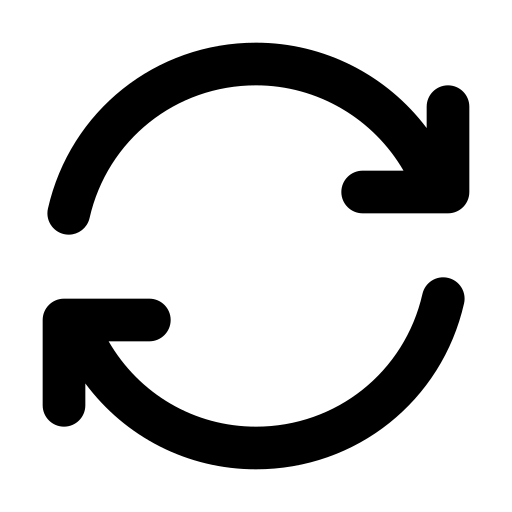
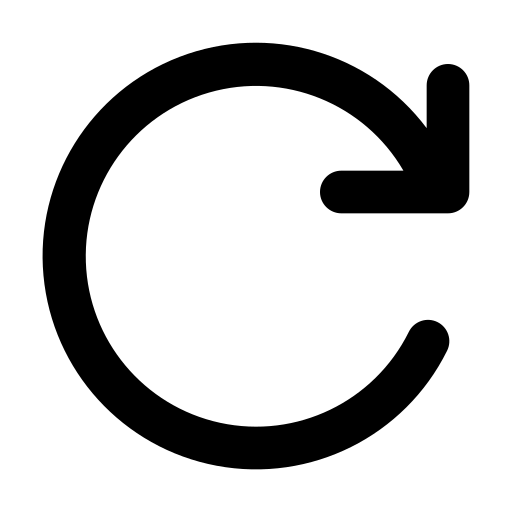
stable. confirm before clear

diff --git a/modules/helpers.js b/modules/helpers.js
@@ -189,73 +189,6 @@ export function highlightText(text, keyword) {
   return result;
 }
 
-// export function getCategoryIcon(category) {
-//   switch (category) {
-//     case 'html':
-//       return '🌐';
-
-//     case 'css':
-//       return '🎨';
-
-//     case 'js':
-//       return '⚡';
-
-//     case 'api':
-//       return '🔌';
-
-//     case 'graphql':
-//       return '🕸️';
-
-//     case 'xml':
-//       return '📰';
-
-//     case 'form':
-//       return '📝';
-
-//     case 'upload':
-//       return '📤';
-
-//     case 'image':
-//       return '🖼️';
-
-//     case 'video':
-//       return '🎬';
-
-//     case 'audio':
-//       return '🎵';
-
-//     case 'font':
-//       return '🔤';
-
-//     case 'pdf':
-//       return '📄';
-
-//     case 'archive':
-//       return '📦';
-
-//     case 'text':
-//       return '📃';
-
-//     case 'wasm':
-//       return '🧩';
-
-//     case 'manifest':
-//       return '📋';
-
-//     case 'stream':
-//       return '📺';
-
-//     case 'sse':
-//       return '📡';
-
-//     case 'sourcemap':
-//       return '🗺️';
-
-//     default:
-//       return '❓';
-//   }
-// }
-
 export function getCategoryIcon(category) {
   switch (category) {
     case 'html':

diff --git a/panel.html b/panel.html
@@ -8,13 +8,29 @@
 </head>
 <body>
   <div id="search-bar">
-    <button id="reload-btn" class="btn secondary">Reload</button>
-    <button id="clear" class="btn secondary">Clear</button>
-    <select id="capture-mode">
-          <option value="api">API Only</option>
-          <option value="all">All Traffic</option>
-          <option value="custom">Custom</option>
-        </select>
+    <button id="reload-btn" class="btn secondary" title="Reload">
+      <img src="icons/reload.png" class="btn-icon"/>
+    </button>
+    <button id="clear" class="btn secondary" title="Clear All">
+      <img src="icons/trash.png" class="btn-icon"/>
+    </button>
+
+    <div class="theme-picker">
+      <img src="icons/filter.png" class="theme-icon"/>
+      <select id="capture-mode">
+        <option value="api">API Only</option>
+        <option value="all">All Traffic</option>
+        <option value="custom">Custom</option>
+      </select>
+    </div>
+
+    <button class="btn secondary" id="export-btn">
+      <img src="icons/export.png" class="btn-icon"/>
+    </button>
+    <button class="btn secondary" id="import-btn">
+        <img src="icons/import.png" class="btn-icon"/>
+    </button>
+    
     <input id="search" type="text" placeholder="Filter by URL…" spellcheck="false" />
     <select id="filter-method">
       <option value="">All Methods</option>
@@ -38,7 +54,7 @@
     <div class="actions">
       <div class="theme-picker">
         <img src="icons/theme.png" class="theme-icon"/>
-          <select id="theme-select">
+        <select id="theme-select">
           <option value="vscode-dark">VS Code Dark</option>
           <option value="jetbrains-dark">JetBrains Dark</option>
           <option value="one-dark">One Dark</option>
@@ -87,6 +103,17 @@
     <span id="status-text">Listening…</span>
     <span id="status-count">0 requests</span>
   </footer>
+
+  <!-- Modal Konfirmasi Kustom -->
+  <div id="confirmModal" style="display: none; position: fixed; inset: 0; background: rgba(0,0,0,0.5); z-index: 9999; align-items: center; justify-content: center;">
+    <div style="background: white; padding: 24px; border-radius: 12px; max-width: 400px; width: 90%; box-shadow: 0 10px 30px rgba(0,0,0,0.3);">
+      <p id="confirmMessage" style="margin-top: 0; font-size: 16px; color: #333;"></p>
+      <div style="display: flex; gap: 12px; justify-content: flex-end; margin-top: 20px;">
+        <button id="confirmNo" style="padding: 8px 20px; border: 1px solid #ccc; background: #f5f5f5; border-radius: 6px; cursor: pointer;">Cancel</button>
+        <button id="confirmYes" style="padding: 8px 20px; border: none; background: #d32f2f; color: white; border-radius: 6px; cursor: pointer;">Delete All</button>
+      </div>
+    </div>
+  </div>
 
   <script type="module" src="panel.js"></script>
 </body>

diff --git a/panel.js b/panel.js
@@ -41,6 +41,11 @@ filterStatus.addEventListener('change', renderList);
 filterContent.addEventListener('input', renderList);
 
 document.getElementById('clear').onclick = async () => {
+  const confirmed = await customConfirm(
+    'Are you sure you want to clear all logs?\n\nThis action cannot be undone.'
+  );
+
+  if (!confirmed) return;
   setLogs([]);
   setSelectedId(null);
   setEditingId(null);
@@ -153,6 +158,44 @@ document.getElementById('reload-btn').addEventListener('click', () => {
         ignoreCache: true
     });
 });
+
+function customConfirm(message) {
+  return new Promise((resolve) => {
+    const modal = document.getElementById('confirmModal');
+    const msgEl = document.getElementById('confirmMessage');
+    const yesBtn = document.getElementById('confirmYes');
+    const noBtn = document.getElementById('confirmNo');
+
+    msgEl.textContent = message;
+    modal.style.display = 'flex';
+
+    const cleanup = () => {
+      yesBtn.onclick = null;
+      noBtn.onclick = null;
+      modal.onclick = null;
+    };
+
+    yesBtn.onclick = () => {
+      cleanup();
+      modal.style.display = 'none';
+      resolve(true);
+    };
+
+    noBtn.onclick = () => {
+      cleanup();
+      modal.style.display = 'none';
+      resolve(false);
+    };
+
+    modal.onclick = (e) => {
+      if (e.target === modal) {
+        cleanup();
+        modal.style.display = 'none';
+        resolve(false);
+      }
+    };
+  });
+}
 
 // Panggil setelah DOM siap
 initCaptureFilter();

diff --git a/panel.css b/panel.css
@@ -1327,6 +1327,14 @@ body {
     padding: 2px;
 }
 
+.btn-icon {
+    filter: invert(1);
+    fill: var(--bg-primary);
+    width: 22px;
+    height: 22px;
+    padding: 2px;
+}
+
 .search-nav{
   height: 28px;
   background: var(--accent);
@@ -2454,4 +2462,11 @@ body {
     border-radius: 4px;
     background: var(--surface-secondary);
     user-select: none;
+}
+
+#confirmModal {
+  font-family: Arial, sans-serif;
+}
+#confirmModal button:hover {
+  opacity: 0.8;
 }

diff --git a/modules/render.js b/modules/render.js
@@ -144,8 +144,8 @@ export function renderDetail(idx) {
   let html = '';
 
   html += `<style>
-  .highlight { background-color: #ff0; color: #000; }
-  .highlight.active { background-color: #ff9632; }
+  .highlight { background-color: rgb(255, 255, 104); color: #000; }
+  .highlight.active { background-color: #ff9028; }
   .response-search-wrap { display: flex; gap: 8px; align-items: center; margin-bottom: 8px; }
   .response-search-wrap input { flex: 1; padding: 4px 8px; }
   .search-nav { padding: 4px 8px; cursor: pointer; }